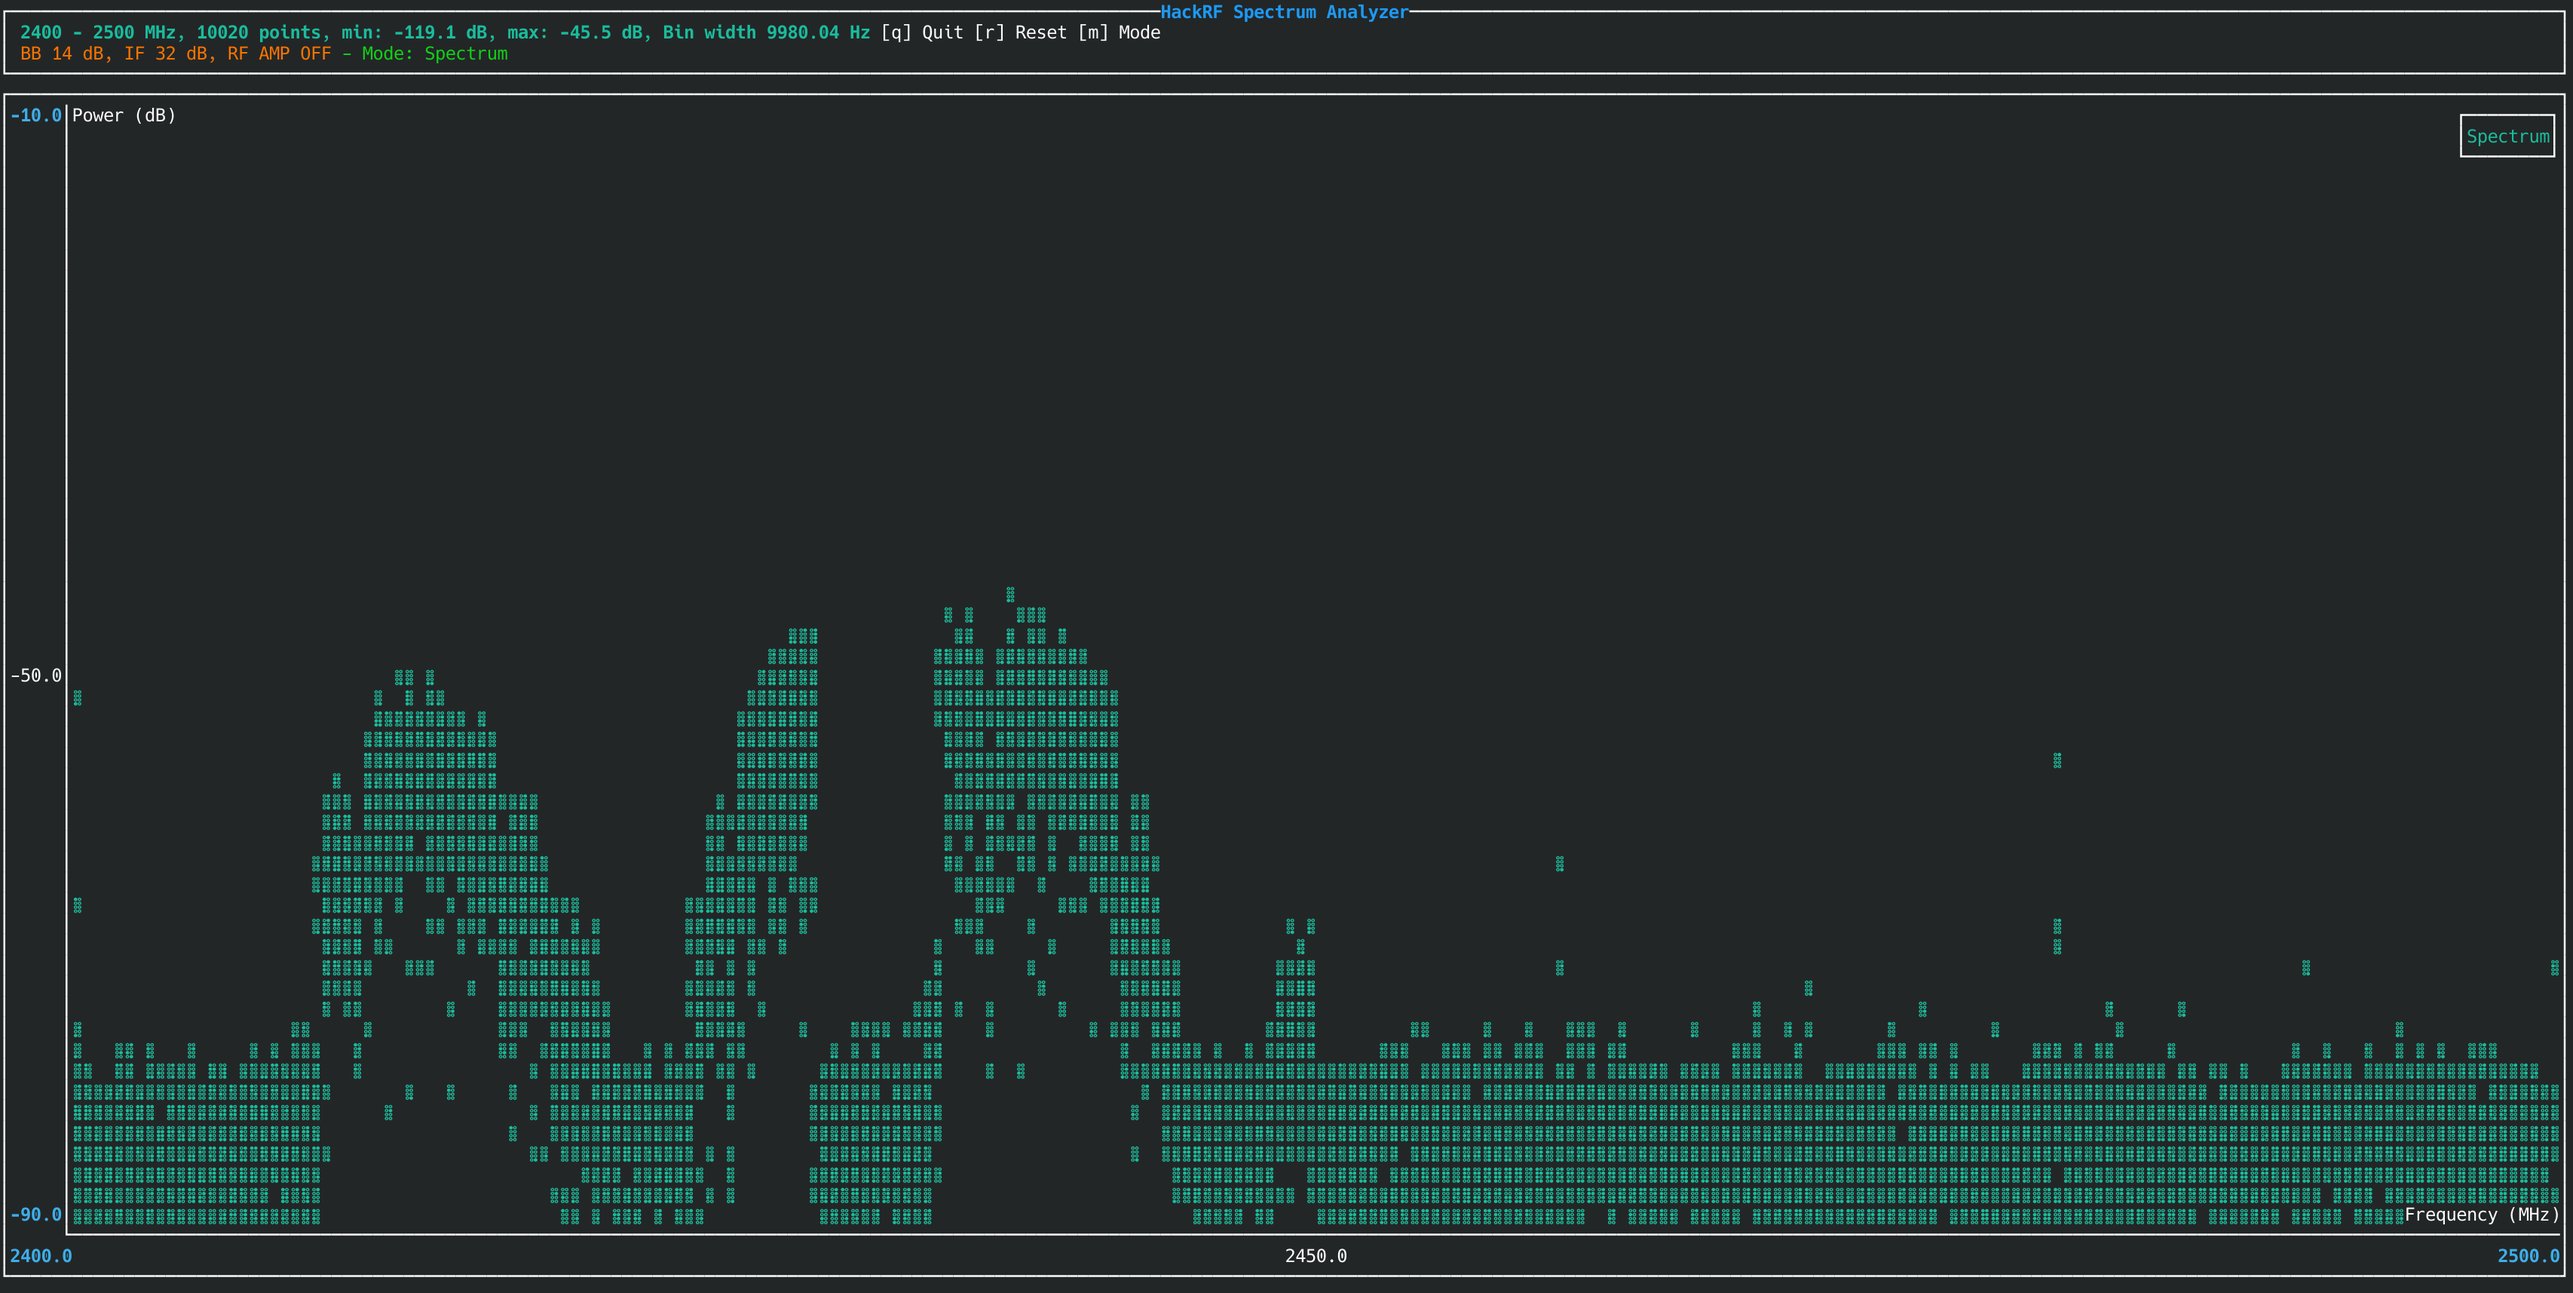
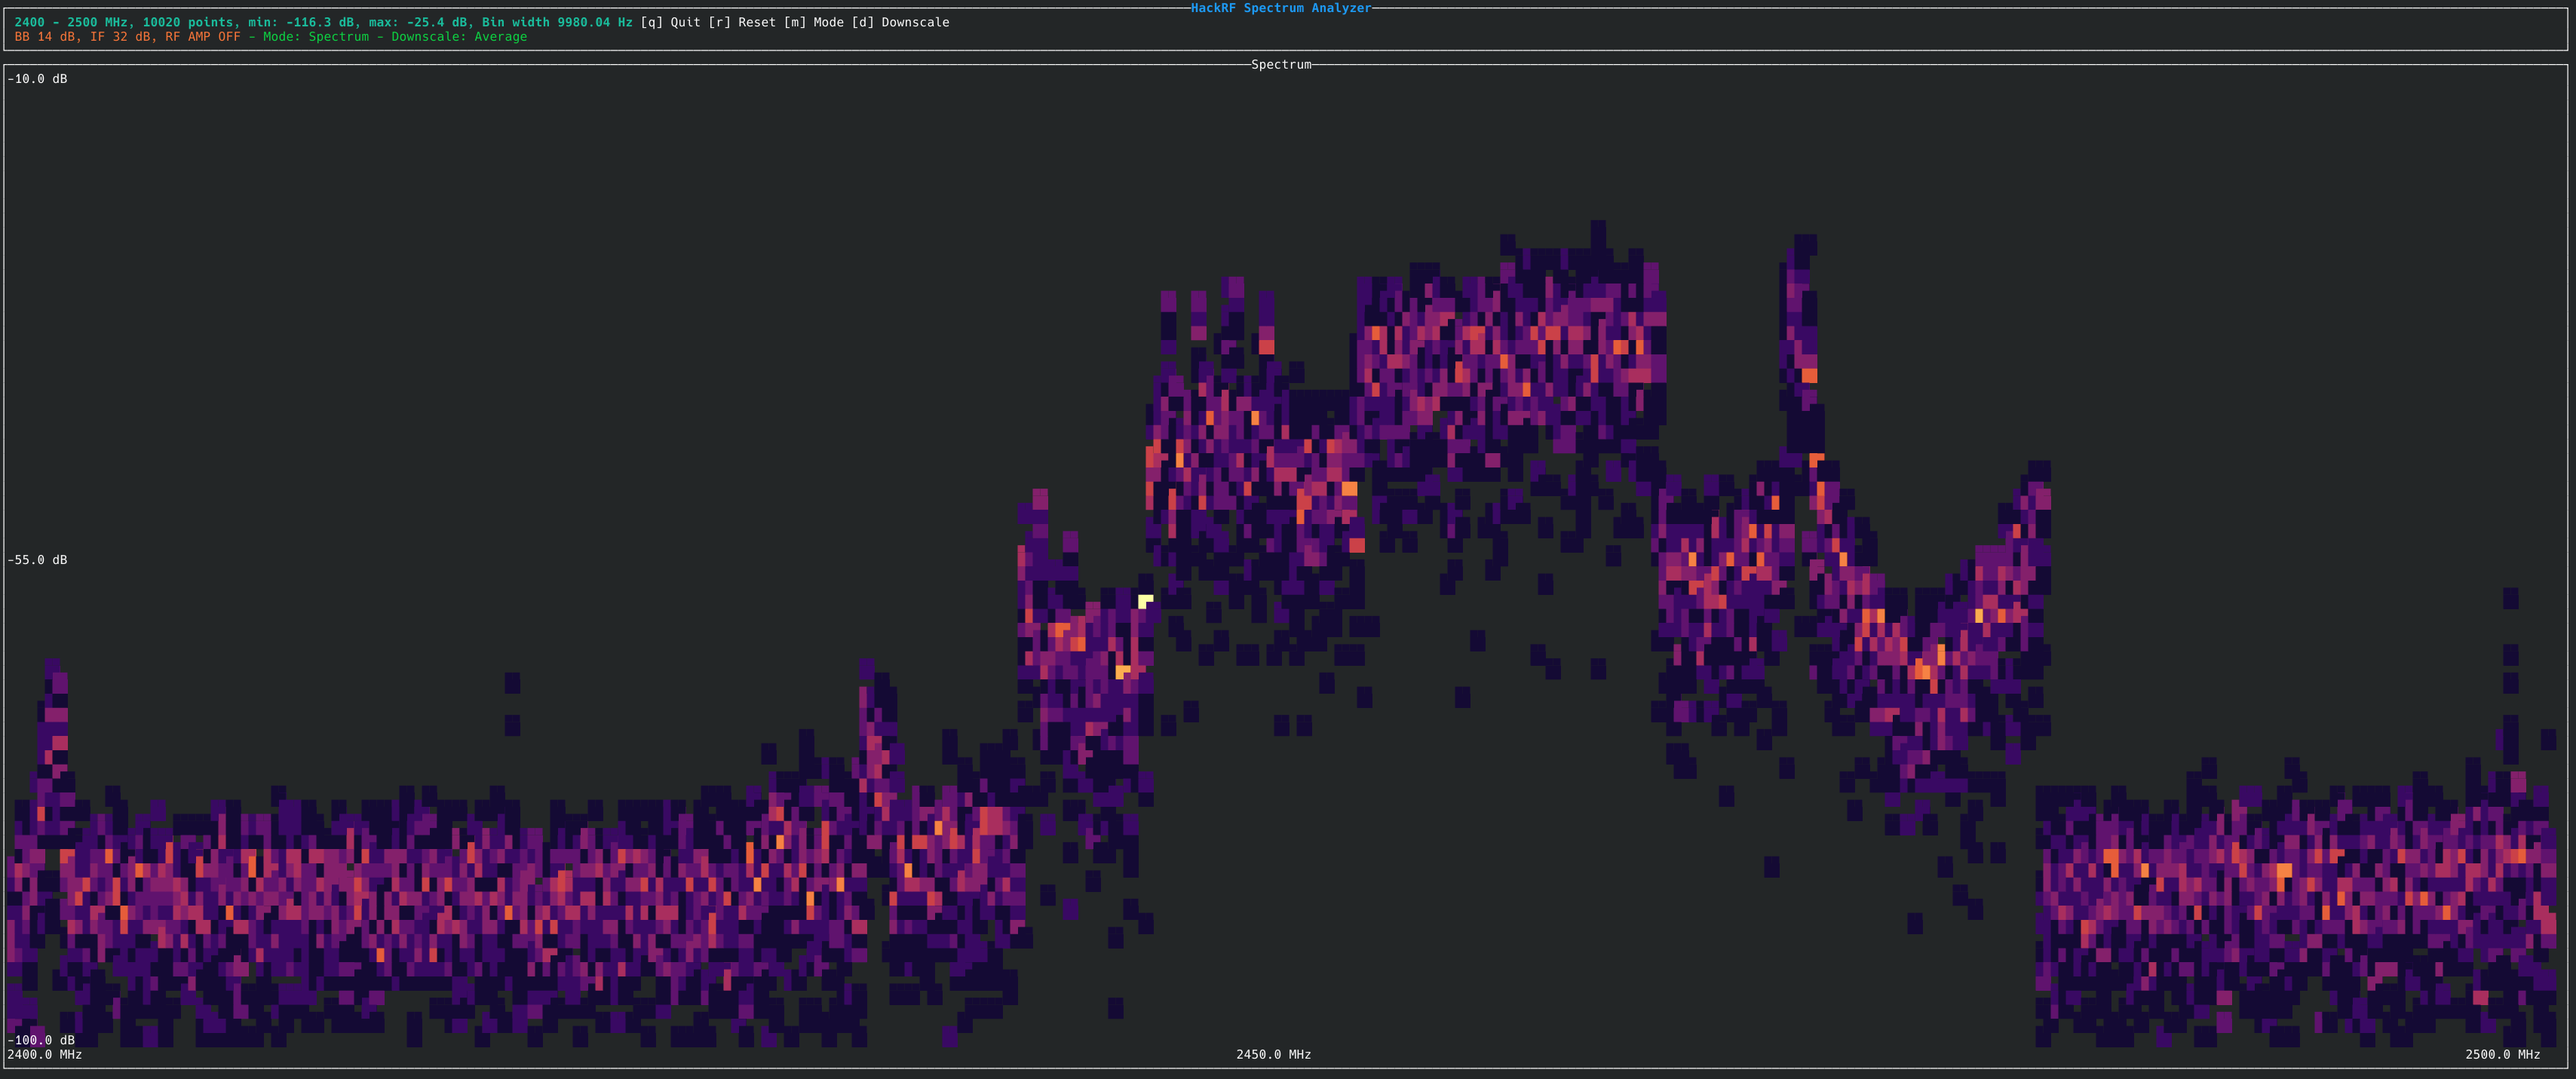
improve spectrum view

Changed region(s): [[0.0, 0.0, 1.0, 1.0], [0.0, 0.492, 0.0311, 0.5535]]

diff --git a/src/bin/tui.rs b/src/bin/tui.rs
@@ -184,12 +184,12 @@ impl App {
             // Update spectrum data points
             self.data_points.clear();
 
-            let freq_range = (self.params.freq_max - self.params.freq_min) as f64;
+            let freq_range = (self.params.max_freq - self.params.min_freq) as f64;
             let point_count = sweep.db.len();
 
             for (i, db) in sweep.db.iter().enumerate() {
                 let freq =
-                    self.params.freq_min as f64 + (i as f64 / point_count as f64) * freq_range;
+                    self.params.min_freq as f64 + (i as f64 / point_count as f64) * freq_range;
                 self.data_points.push((freq, *db as f64));
             }
 
@@ -214,8 +214,8 @@ impl App {
         let info_text = if let Some(sweep) = &self.current_sweep {
             format!(
                 "{} - {} MHz, {} points, min: {:.1} dB, max: {:.1} dB, Bin width {} Hz",
-                self.params.freq_min,
-                self.params.freq_max,
+                self.params.min_freq,
+                self.params.max_freq,
                 sweep.db.len(),
                 sweep.db.iter().cloned().fold(f32::INFINITY, f32::min),
                 sweep.db.iter().cloned().fold(f32::NEG_INFINITY, f32::max),
@@ -321,67 +321,180 @@ impl App {
             return;
         }
 
-        // Find the actual min and max frequencies
-        let min_freq = self.params.freq_min as f64;
-        let max_freq = self.params.freq_max as f64;
-
-        // Create x-axis labels
-        let mid_freq = (min_freq + max_freq) / 2.0;
-        let x_labels = vec![
-            Span::styled(
-                format!("{:.1}", min_freq),
-                Style::default().add_modifier(Modifier::BOLD),
-            ),
-            Span::raw(format!("{:.1}", mid_freq)),
-            Span::styled(
-                format!("{:.1}", max_freq),
-                Style::default().add_modifier(Modifier::BOLD),
-            ),
-        ];
-
-        // Create y-axis labels
+        // Find the actual min and max frequencies and power levels
+        let min_freq = self.params.min_freq as f64;
+        let max_freq = self.params.max_freq as f64;
         let min_db = self.params.min_db as f64;
         let max_db = self.params.max_db as f64;
-        let mid_db = (min_db + max_db) / 2.0;
 
-        let y_labels = vec![
-            Span::styled(
-                format!("{:.1}", min_db),
-                Style::default().add_modifier(Modifier::BOLD),
-            ),
-            Span::raw(format!("{:.1}", mid_db)),
-            Span::styled(
-                format!("{:.1}", max_db),
-                Style::default().add_modifier(Modifier::BOLD),
-            ),
+        // Create a block with border and title
+        let block = Block::bordered()
+            .title("Spectrum")
+            .title_alignment(ratatui::layout::Alignment::Center);
+
+        let inner_area = block.inner(area);
+
+        frame.render_widget(block, area);
+
+        // Create a canvas to draw the density-colored spectrum
+        let spectrum = Canvas::default()
+            .marker(symbols::Marker::HalfBlock)
+            .paint(|ctx| {
+                let width = inner_area.width as usize;
+                let height = inner_area.height as usize;
+
+                if width == 0 || height == 0 || self.data_points.is_empty() {
+                    return;
+                }
+
+                // Create a 2D grid to count how many points fall into each pixel
+                let mut density_grid = vec![vec![0u32; height]; width];
+                let mut max_density = 0u32;
+
+                // Map each data point to a pixel and count density
+                for &(freq, db) in &self.data_points {
+                    // Calculate x position (frequency)
+                    let x_pos =
+                        ((freq - min_freq) / (max_freq - min_freq) * (width as f64 - 1.0)) as usize;
+
+                    // Calculate y position (power)
+                    let y_normalized = (db - min_db) / (max_db - min_db);
+                    let y_normalized = y_normalized.clamp(0.0, 1.0);
+                    // Use y_normalized directly without inverting
+                    let y_pos = (height as f64 * y_normalized) as usize;
+
+                    // Ensure we're within bounds
+                    if x_pos < width && y_pos < height && x_pos > 0 && y_pos > 0 {
+                        // Increment the density counter for this pixel
+                        density_grid[x_pos][y_pos] += 1;
+                        max_density = max_density.max(density_grid[x_pos][y_pos]);
+                    }
+                }
+
+                // Now draw each pixel with color based on its density
+                for x in 0..width {
+                    for y in 0..height {
+                        let density = density_grid[x][y];
+
+                        // Only draw pixels that have at least one point
+                        if density > 0 {
+                            // Normalize density to 0.0-1.0 range for color
+                            let normalized_density = density as f32 / max_density as f32;
+
+                            // Get color based on density
+                            let color = self.get_color_from_value(normalized_density);
+
+                            // Draw a single pixel
+                            ctx.draw(&Rectangle {
+                                x: x as f64,
+                                y: y as f64,
+                                width: 1.0,
+                                height: 1.0,
+                                color,
+                            });
+                        }
+                    }
+                }
+            })
+            .x_bounds([0.0, inner_area.width as f64])
+            .y_bounds([0.0, inner_area.height as f64]);
+
+        frame.render_widget(spectrum, inner_area);
+
+        // Add frequency labels at the bottom
+        let mid_freq = (min_freq + max_freq) / 2.0;
+
+        let labels = vec![
+            format!("{:.1} MHz", min_freq),
+            format!("{:.1} MHz", mid_freq),
+            format!("{:.1} MHz", max_freq),
         ];
 
-        // Create dataset from current sweep data
-        let dataset = Dataset::default()
-            .name("Spectrum")
-            .marker(symbols::Marker::Braille)
-            .style(Style::default().fg(Color::Cyan))
-            .data(&self.data_points);
+        let label_width = 12;
+        let spacing = (inner_area.width - 3 * label_width) / 2;
 
-        // Create the chart
-        let chart = Chart::new(vec![dataset])
-            .block(Block::bordered())
-            .x_axis(
-                Axis::default()
-                    .title("Frequency (MHz)")
-                    .style(Style::default().fg(Color::Gray))
-                    .bounds([min_freq, max_freq])
-                    .labels(x_labels),
-            )
-            .y_axis(
-                Axis::default()
-                    .title("Power (dB)")
-                    .style(Style::default().fg(Color::Gray))
-                    .bounds([min_db, max_db])
-                    .labels(y_labels),
-            );
+        // Render min frequency label
+        frame.render_widget(
+            ratatui::widgets::Paragraph::new(Span::styled(
+                labels[0].clone(),
+                Style::default().fg(Color::Gray),
+            )),
+            Rect::new(
+                inner_area.x,
+                inner_area.y + inner_area.height - 1,
+                label_width,
+                1,
+            ),
+        );
 
-        frame.render_widget(chart, area);
+        // Render mid frequency label
+        frame.render_widget(
+            ratatui::widgets::Paragraph::new(Span::styled(
+                labels[1].clone(),
+                Style::default().fg(Color::Gray),
+            )),
+            Rect::new(
+                inner_area.x + label_width + spacing,
+                inner_area.y + inner_area.height - 1,
+                label_width,
+                1,
+            ),
+        );
+
+        // Render max frequency label
+        frame.render_widget(
+            ratatui::widgets::Paragraph::new(Span::styled(
+                labels[2].clone(),
+                Style::default().fg(Color::Gray),
+            )),
+            Rect::new(
+                inner_area.x + 2 * (label_width + spacing),
+                inner_area.y + inner_area.height - 1,
+                label_width,
+                1,
+            ),
+        );
+
+        // Add dB level labels on the side
+        let db_label_height = 1;
+        let db_spacing = (inner_area.height - 3 * db_label_height) / 2;
+
+        // Render max dB label
+        frame.render_widget(
+            ratatui::widgets::Paragraph::new(Span::styled(
+                format!("{:.1} dB", max_db),
+                Style::default().fg(Color::Gray),
+            )),
+            Rect::new(inner_area.x, inner_area.y, label_width, db_label_height),
+        );
+
+        // Render mid dB label
+        frame.render_widget(
+            ratatui::widgets::Paragraph::new(Span::styled(
+                format!("{:.1} dB", (min_db + max_db) / 2.0),
+                Style::default().fg(Color::Gray),
+            )),
+            Rect::new(
+                inner_area.x,
+                inner_area.y + db_label_height + db_spacing,
+                label_width,
+                db_label_height,
+            ),
+        );
+
+        // Render min dB label
+        frame.render_widget(
+            ratatui::widgets::Paragraph::new(Span::styled(
+                format!("{:.1} dB", min_db),
+                Style::default().fg(Color::Gray),
+            )),
+            Rect::new(
+                inner_area.x,
+                inner_area.y + 2 * (db_label_height + db_spacing),
+                label_width,
+                db_label_height,
+            ),
+        );
     }
 
     fn render_waterfall(&self, frame: &mut Frame, area: Rect) {
@@ -440,8 +553,8 @@ impl App {
         frame.render_widget(waterfall, inner_area);
 
         // Add frequency labels at the bottom
-        let min_freq = self.params.freq_min;
-        let max_freq = self.params.freq_max;
+        let min_freq = self.params.min_freq;
+        let max_freq = self.params.max_freq;
         let mid_freq = (min_freq + max_freq) / 2;
 
         let labels = vec![

diff --git a/src/cli.rs b/src/cli.rs
@@ -18,11 +18,11 @@ pub struct SweepParams {
 
     /// Minimum frequency in MHz
     #[arg(long, default_value_t = 2400)]
-    pub freq_min: u32,
+    pub min_freq: u32,
 
     /// Maximum frequency in MHz
     #[arg(long, default_value_t = 2500)]
-    pub freq_max: u32,
+    pub max_freq: u32,
 
     /// RX RF amplifier 1=Enable, 0=Disable
     #[arg(short = 'a', long, default_value_t = 0)]
@@ -37,7 +37,7 @@ pub struct SweepParams {
     pub max_db: f32,
 
     /// Minimum dB value for visualization
-    #[arg(long, default_value_t = -90.0)]
+    #[arg(long, default_value_t = -100.0)]
     pub min_db: f32,
 }
 
@@ -55,11 +55,11 @@ impl SweepParams {
             }
         );
         info!("FFT bin width: {}", self.bin_width);
-        info!("Minimum frequency: {}", self.freq_min);
-        info!("Maximum frequency: {}", self.freq_max);
+        info!("Minimum frequency: {}", self.min_freq);
+        info!("Maximum frequency: {}", self.max_freq);
         info!(
             "Expected image width: ~{}",
-            ((self.freq_max - self.freq_min) as f32 * 1_000_000.0) / (self.bin_width as f32)
+            ((self.max_freq - self.min_freq) as f32 * 1_000_000.0) / (self.bin_width as f32)
         );
         info!("Antenna port power: {}", self.antenna_enable);
         info!("Visualization dB range: {} to {}", self.min_db, self.max_db);

diff --git a/src/lib.rs b/src/lib.rs
@@ -40,8 +40,8 @@ pub fn run_sweep(params: &SweepParams) -> Sweep {
         params.gain,
         params.lna_gain,
         params.bin_width,
-        params.freq_min,
-        params.freq_max,
+        params.min_freq,
+        params.max_freq,
         if params.amp_enable == 1 { " -a1" } else { "" },
         if params.antenna_enable == 1 {
             " -p1"
